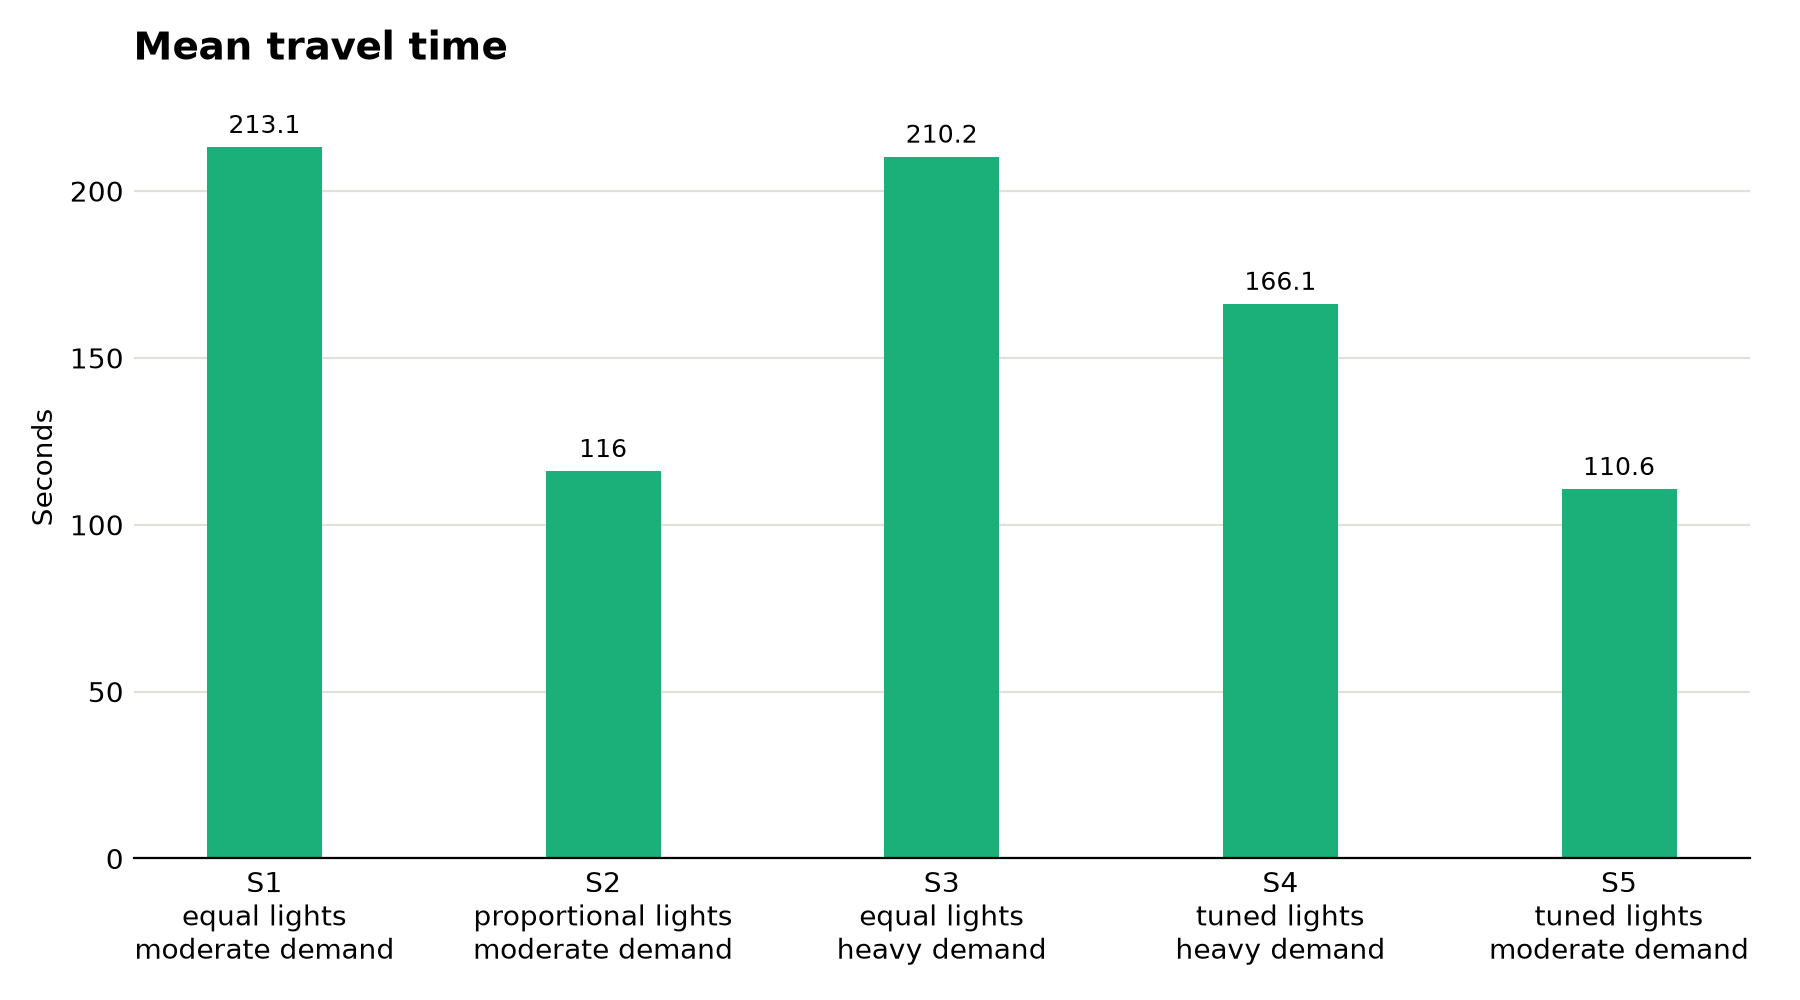
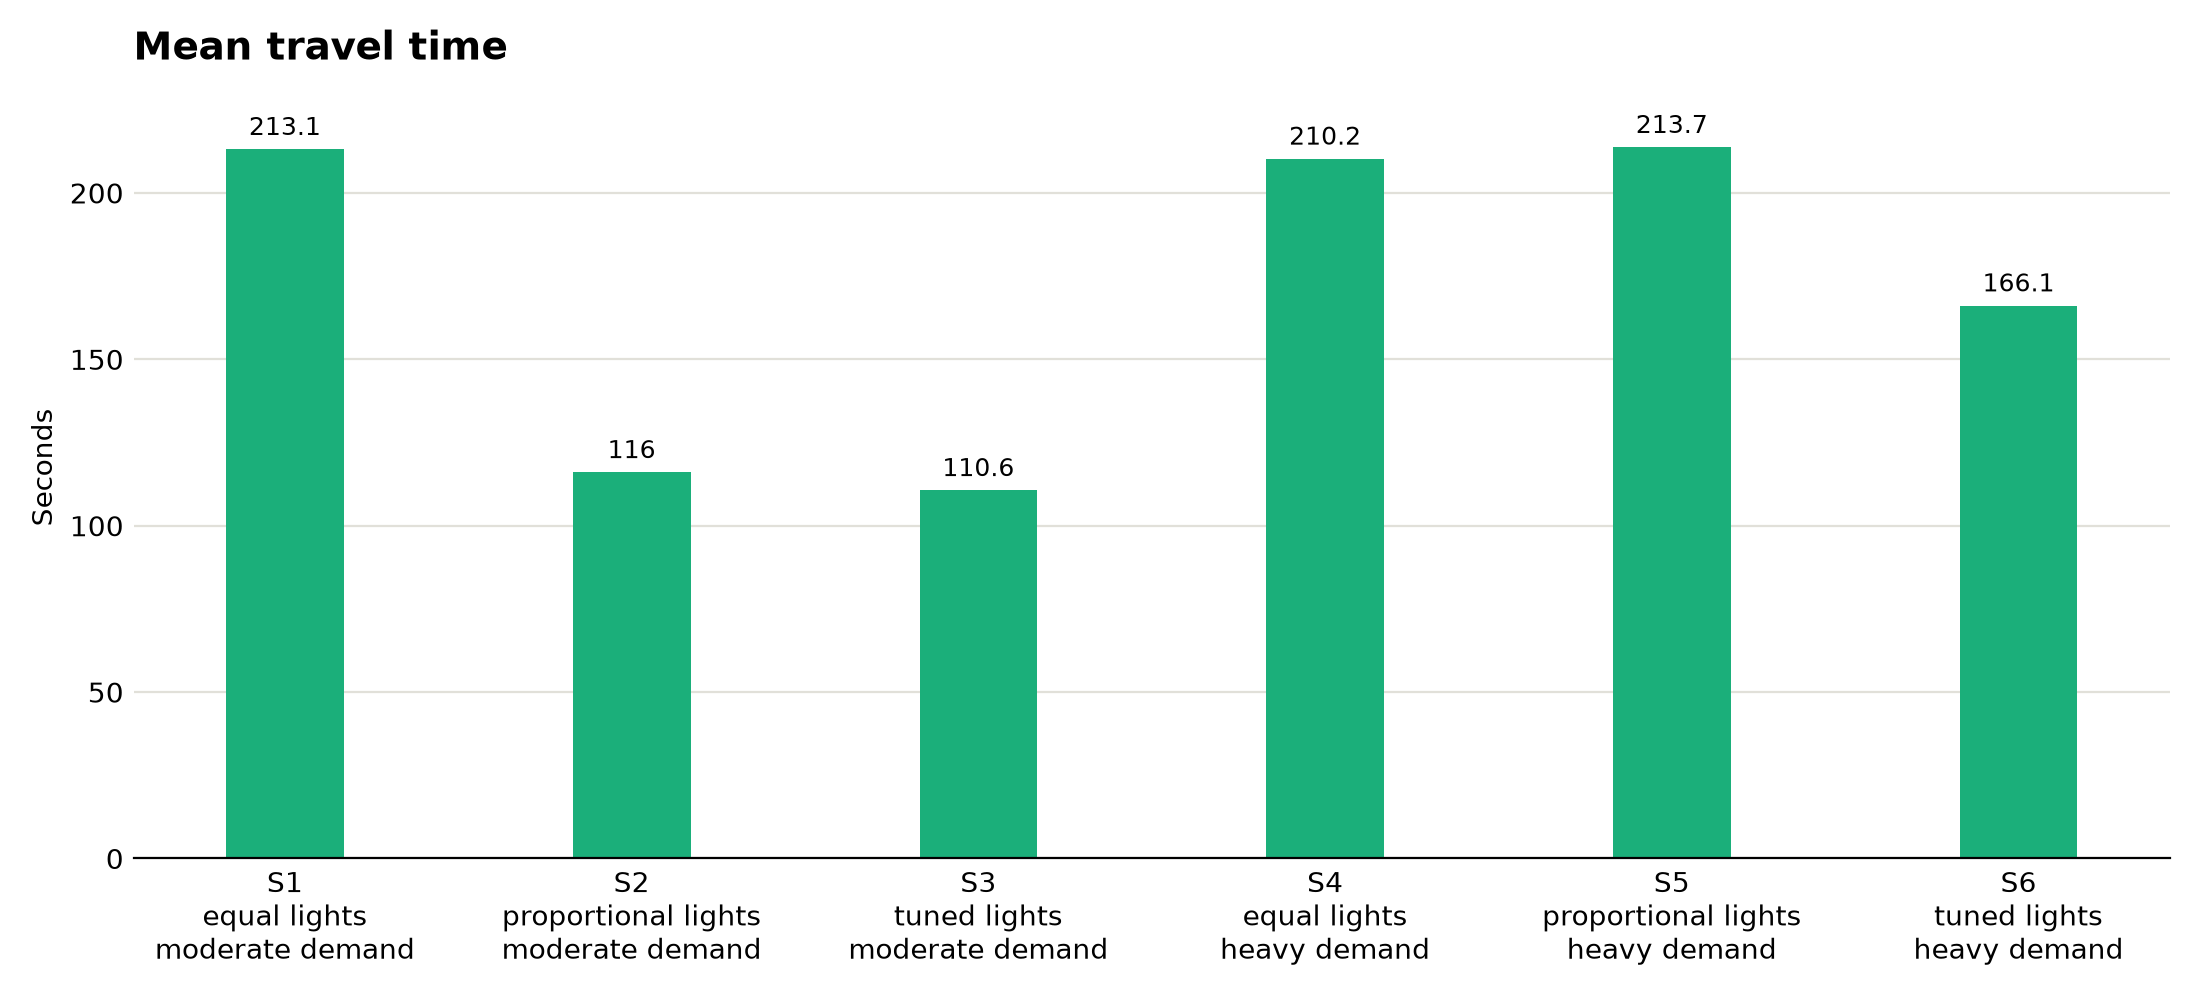
[Sumo + Python] Rename scenarios, add heavy proportional
- Scenario files now named by demand and lights (s1_moderate_equal etc.)
- Add s5_heavy_proportional so every demand/lights combination has a scenario
- Regenerate results and charts for the 6 scenarios, widen charts so labels fit
- Add docs/commands.txt

diff --git a/analysis/plot.py b/analysis/plot.py
@@ -25,7 +25,7 @@ def scenario_label(row):
 
 
 def bar_chart(rows, filename, title, ylabel, series):
-    fig, ax = plt.subplots(figsize=(9, 5))
+    fig, ax = plt.subplots(figsize=(11, 5))
     positions = range(len(rows))
     bar_width = GROUP_WIDTH / max(len(series), 2)
 
